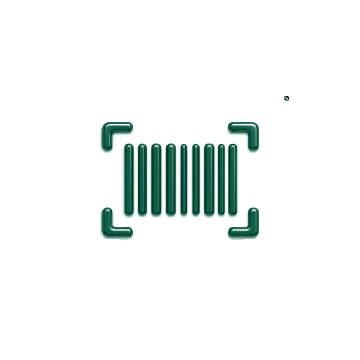
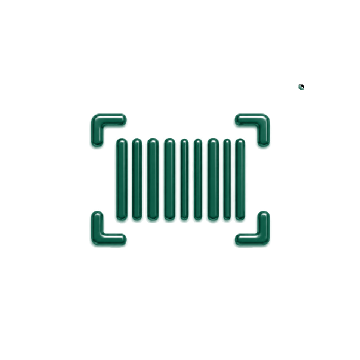
fix(pictogramas): tamanho optico e margem do card
Dois defeitos que a captura do Agnaldo revelou.

1) DESPROPORCAO. Igualar a CAIXA de cada desenho em 52% deixou a area de
tinta variando 3,4x entre as pecas (3,9% a 13,4%): a pata parecia pesada e a
linha de pulso parecia perdida. O olho pesa a tinta, nao a caixa. A escala
agora e a media geometrica entre igualar caixa e igualar tinta, com a caixa
presa entre 46% e 66% — desenho fino cresce, desenho cheio encolhe. Resultado
no conjunto da Home: caixas de 48% a 65%, tinta equilibrada.

2) ROTULO COLADO NA BORDA. O card do PNG legado nao preenchia a imagem: ocupava
75,4% da largura e 78,8% da altura, e era essa margem que dava o respiro antes
do texto. Meu tile preenchia a caixa inteira. Agora o card e desenhado com a
mesma proporcao e o mesmo recuo de antes.

Changed region(s): [[0.2444, 0.3056, 0.7639, 0.7028], [0.825, 0.2139, 0.8556, 0.2444]]

diff --git a/scripts/normalizar_pictogramas.js b/scripts/normalizar_pictogramas.js
@@ -32,9 +32,19 @@ const DESTINO = path.join(ORIGEM, 'glifos');
 const VERDE_ALVO = [6, 78, 59];
 const CREME = [244, 235, 220];
 
-// Fração do quadro que o desenho ocupa. 0.52 é a mediana medida do acervo:
-// escolher a mediana faz a maioria das peças mudar pouco.
-const OCUPACAO = 0.52;
+// ── TAMANHO ÓPTICO ──────────────────────────────────────────────────────────
+// Igualar a CAIXA de cada desenho não funciona: com todas em 52% de caixa, a
+// área de tinta variou 3,4x entre as peças (de 3,9% a 13,4%), e a grade ficou
+// visivelmente desproporcional — a pata parecia pesada, a linha de pulso
+// parecia perdida. O olho pesa a tinta, não a caixa.
+//
+// Também não serve igualar só a tinta: a linha de pulso precisaria crescer
+// 58% e estouraria o tile. O equilíbrio é a média geométrica entre as duas
+// normalizações, com a caixa presa numa faixa.
+const TINTA_ALVO = 0.097;     // mediana medida do conjunto
+const CAIXA_ALVO = 0.52;
+const CAIXA_MIN = 0.46;
+const CAIXA_MAX = 0.66;
 
 const clamp = (v, a, b) => Math.max(a, Math.min(b, v));
 const lum = (r, g, b) => 0.2126 * r + 0.7152 * g + 0.0722 * b;
@@ -117,10 +127,11 @@ function processar(arquivo, base) {
     const { width: w, height: h } = src;
     const { alfa, cor } = extrair(src);
 
-    // caixa, centro de massa e luminância média do glifo
-    let x0 = w, y0 = h, x1 = -1, y1 = -1, peso = 0, sx = 0, sy = 0, sL = 0;
+    // caixa, centro de massa, luminância média e ÁREA DE TINTA do glifo
+    let x0 = w, y0 = h, x1 = -1, y1 = -1, peso = 0, sx = 0, sy = 0, sL = 0, tinta = 0;
     for (let y = 0; y < h; y++) for (let x = 0; x < w; x++) {
         const p = y * w + x, a = alfa[p];
+        if (a > 0.03) tinta += a;                      // cobertura real, com a borda suave
         if (a < 0.5) continue;
         if (x < x0) x0 = x; if (y < y0) y0 = y; if (x > x1) x1 = x; if (y > y1) y1 = y;
         peso += a; sx += x * a; sy += y * a;
@@ -132,9 +143,20 @@ function processar(arquivo, base) {
     const lado = Math.max(x1 - x0 + 1, y1 - y0 + 1);
 
     const saidas = [];
+    let caixaFinal = 0;
     for (const [suf, mult] of [['', 1], ['@2x', 2], ['@3x', 3]]) {
         const S = Math.round(base * mult);
-        const escala = (S * OCUPACAO) / lado;
+
+        // Duas escalas concorrentes: uma iguala a caixa, a outra iguala a
+        // tinta. A média geométrica fica entre as duas — desenho fino cresce,
+        // desenho cheio encolhe — e a faixa impede qualquer extremo.
+        const porCaixa = (S * CAIXA_ALVO) / lado;
+        const porTinta = Math.sqrt((TINTA_ALVO * S * S) / tinta);
+        let escala = Math.sqrt(porCaixa * porTinta);
+        const caixa = (lado * escala) / S;
+        if (caixa > CAIXA_MAX) escala = (S * CAIXA_MAX) / lado;
+        if (caixa < CAIXA_MIN) escala = (S * CAIXA_MIN) / lado;
+        caixaFinal = (lado * escala) / S;
         const out = new PNG({ width: S, height: S });
         out.data.fill(0);
         // amostragem com supersampling 2x2 — a redução do original pede filtro
@@ -172,7 +194,7 @@ function processar(arquivo, base) {
         fs.writeFileSync(path.join(DESTINO, nome), PNG.sync.write(out));
         saidas.push(nome);
     }
-    return { ocupacaoOriginal: lado / w, saidas };
+    return { ocupacaoOriginal: lado / w, caixaFinal, tinta: tinta / (w * h), saidas };
 }
 
 const arg = (n, p) => { const a = process.argv.slice(2), i = a.indexOf('--' + n); return i >= 0 && a[i + 1] ? a[i + 1] : p; };
@@ -181,9 +203,9 @@ const base = Number(arg('base', 180));
 const dir = path.join(ORIGEM, pasta);
 const arquivos = fs.readdirSync(dir).filter((f) => f.endsWith('.png'));
 
-console.log(`Normalizando ${arquivos.length} peça(s) de ${pasta} — verde único, ocupação ${OCUPACAO}, base ${base}px.`);
+console.log(`Normalizando ${arquivos.length} peça(s) de ${pasta} — verde único, tamanho óptico, base ${base}px.`);
 for (const f of arquivos) {
     const r = processar(path.join(dir, f), base);
-    console.log('  ' + f.padEnd(34), r ? `ocupava ${(r.ocupacaoOriginal * 100).toFixed(0)}% → ${(OCUPACAO * 100).toFixed(0)}%` : 'FALHOU: glifo não encontrado');
+    console.log('  ' + f.padEnd(34), r ? 'caixa ' + (r.caixaFinal * 100).toFixed(0) + '% (tinta equilibrada)' : 'FALHOU: glifo nao encontrado');
 }
 console.log(`\nGlifos em assets/illustrations/glifos/ (1x, @2x, @3x). Originais intactos.`);

diff --git a/components/PictogramTile.js b/components/PictogramTile.js
@@ -69,20 +69,22 @@ export default function PictogramTile({
     const raio = lado ? Math.round(lado * 0.18) : 0;
 
     return (
-        <View
-            style={[
-                sizeStyle,
-                styles.tile,
-                {
-                    backgroundColor: atenuado ? CREME_NOTURNO : CREME,
-                    borderRadius: raio,
-                    shadowColor: Neo.colors.primary[900],
-                },
-                style,
-            ]}
-            onLayout={(e) => setLado(e.nativeEvent.layout.height)}
-            {...rest}
-        >
+        <View style={[sizeStyle, styles.moldura, style]} {...rest}>
+            {/* O card NÃO preenche a caixa toda. No PNG antigo ele ocupava 75%
+                da largura e 79% da altura da imagem, e era essa margem que dava
+                o respiro entre o tile e o rótulo. Preenchendo tudo, o texto
+                encostava na borda de baixo. */}
+            <View
+                style={[
+                    styles.tile,
+                    {
+                        backgroundColor: atenuado ? CREME_NOTURNO : CREME,
+                        borderRadius: raio,
+                        shadowColor: Neo.colors.primary[900],
+                    },
+                ]}
+                onLayout={(e) => setLado(e.nativeEvent.layout.height)}
+            >
             {/* O glifo é quadrado e se mede pela ALTURA do tile: é isso que faz
                 todas as peças terem o mesmo peso óptico na grade.
                 O tamanho vem do valor MEDIDO, não de porcentagem: dentro de um
@@ -96,13 +98,22 @@ export default function PictogramTile({
                         resizeMode={resizeMode}
                     />
                 )}
+                </View>
             </View>
         </View>
     );
 }
 
 const styles = StyleSheet.create({
+    moldura: {
+        alignItems: 'center',
+        justifyContent: 'center',
+    },
     tile: {
+        // proporção e tamanho do card dentro da caixa — os mesmos que o PNG
+        // legado tinha (435x341 numa imagem de 577x433)
+        width: '75.4%',
+        aspectRatio: 435 / 341,
         overflow: 'hidden',
         // Borda como insinuação, não como contorno: o traço escuro de antes
         // era o que mais endurecia a peça.
